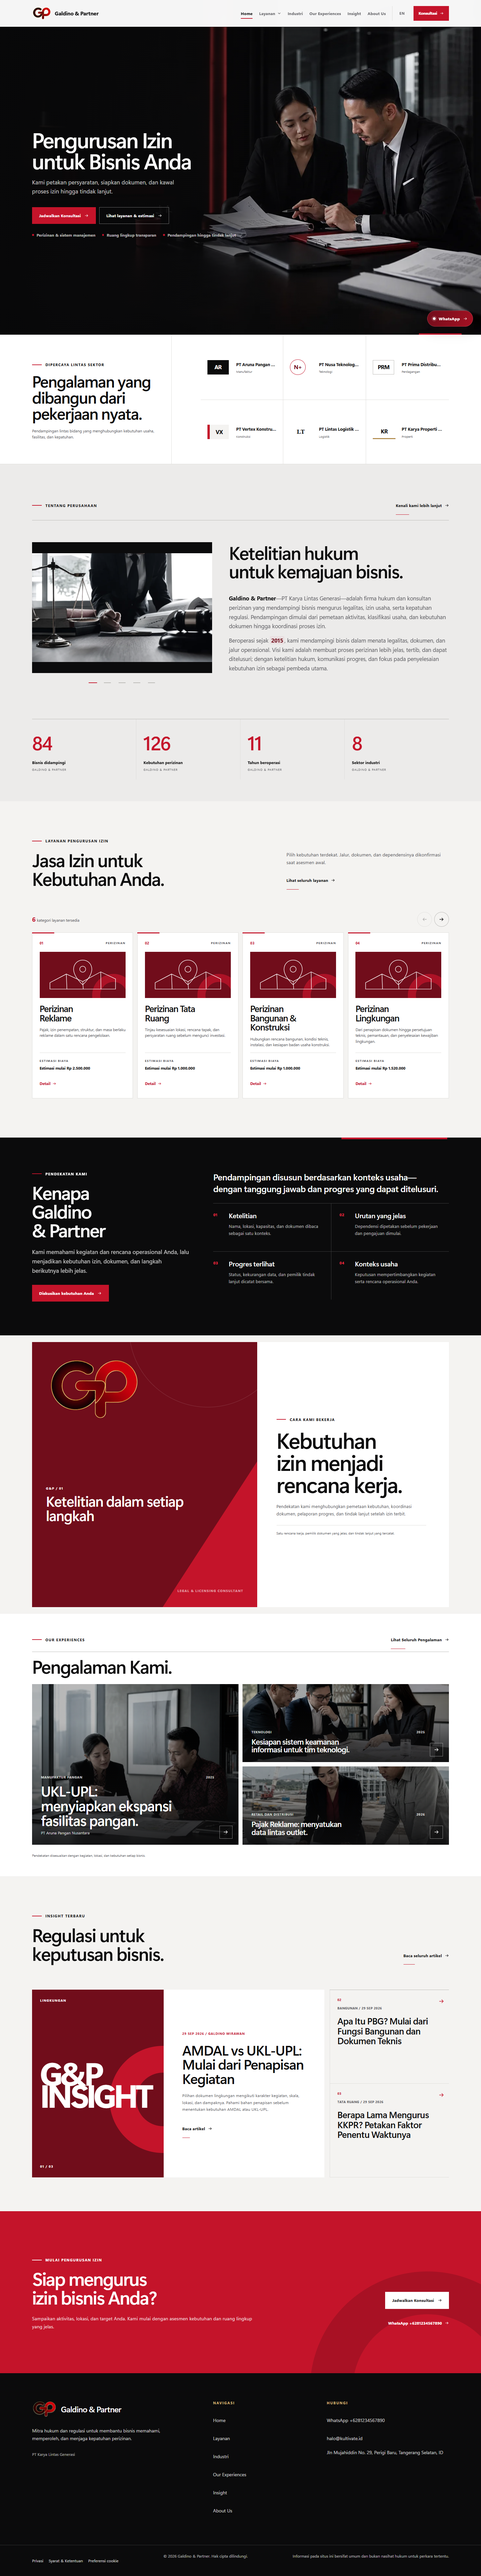
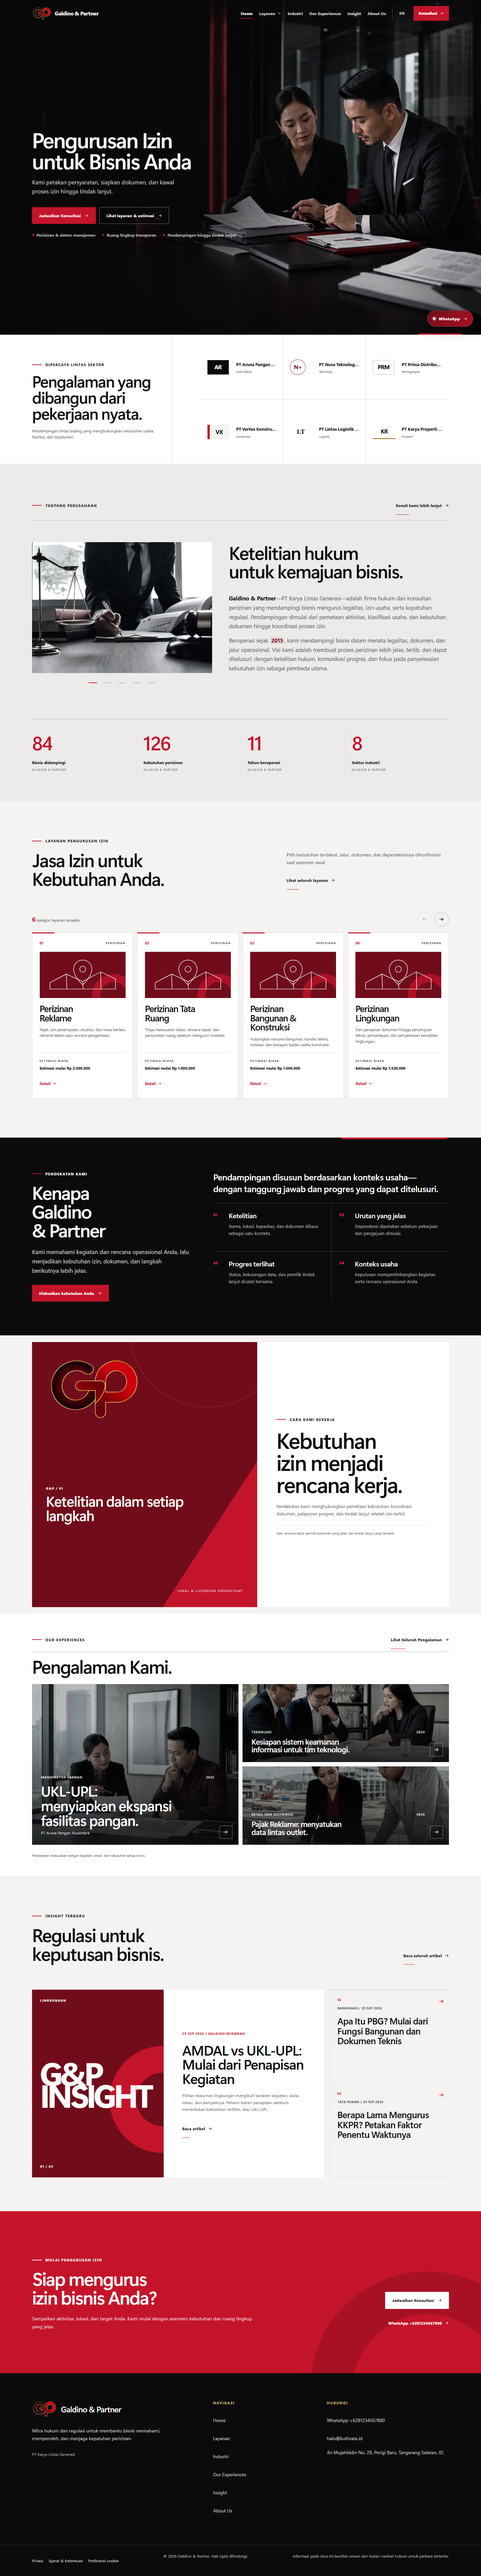
Refine service estimates, fitted photos and About Us sections

Changed region(s): [[0.0625, 0.1871, 0.4375, 0.2806], [0.0, 0.0, 1.0, 0.0312]]

diff --git a/outputs/galdino_partner/website/scripts/browser/site.spec.ts b/outputs/galdino_partner/website/scripts/browser/site.spec.ts
@@ -182,7 +182,7 @@ test('brand headings, image framing, navigation and featured sections stay consi
  for(const route of ['', 'profile/', 'services/', 'industries/', 'projects/', 'blog/']){
   await page.goto('/'+locale+'/'+route);
   const hero=page.locator('.home-hero,.profile-hero,.image-hero');expect((await hero.boundingBox())!.height).toBeGreaterThanOrEqual(route==='profile/'?815:999);
-  const heroImg=hero.locator('img').first();expect(await heroImg.evaluate(el=>getComputedStyle(el).objectFit)).toBe('cover');
+  const heroImg=hero.locator('img').first();expect(await heroImg.evaluate(el=>getComputedStyle(el).objectFit)).toBe('cover');const unfilled=await page.locator('.case-photo img,.related-cases img,.ed-figure img,.company-gallery__slide img,.work-collage img').evaluateAll(images=>images.filter(img=>getComputedStyle(img).objectFit!=='cover').length);expect(unfilled).toBe(0);
   if(!['','profile/'].includes(route)){await expect(heroImg).toHaveAttribute('src',/hero-/);expect(await heroImg.evaluate(el=>getComputedStyle(el).objectPosition)).toBe('50% 50%');}
   headings.push(await page.locator('h1').evaluate(el=>{const c=getComputedStyle(el);return [c.fontFamily,c.fontSize,c.fontWeight,c.letterSpacing,c.lineHeight].join('|')}));
   await expect(page.locator('.nav-link[href="/'+locale+'/projects/"]')).toHaveText('Our Experiences');
@@ -230,11 +230,12 @@ test('split detail heroes, compact profiles and contact follow the revised struc
  for(const locale of ['id','en']){
   for(const route of locale==='id'?['services/reklame/','services/reklame/pajak-reklame/','industries/developer-properti/']:['services/advertising-permits/','services/advertising-permits/advertising-tax/','industries/property-developers/']){
    await page.goto('/'+locale+'/'+route);await expect(page.locator('.split-hero img')).toBeVisible();await expect(page.locator('.split-hero')).toHaveCSS('background-color','rgb(255, 255, 255)');await expect(page.locator('.site-header')).not.toHaveClass(/site-header--immersive/);await expect(page.locator('.context-section .ed-button')).toHaveAttribute('href',new RegExp('/'+locale+'/contact/'));const href=await page.locator('.split-hero .ed-button').getAttribute('href');await page.locator('.split-hero .ed-button').click();await expect(page.locator(href!)).toBeInViewport();
+   if(route.includes('pajak-reklame/')||route.includes('advertising-tax/')){const sections=await page.locator('.context-section,#service-estimates,#service-scope').evaluateAll(els=>els.map(el=>el.id||'context'));expect(sections).toEqual(['context','service-estimates','service-scope']);await expect(page.locator('#service-estimates>.ed-note')).toHaveCount(1);const list=page.locator('#service-scope .ed-list').first();await expect(list).toHaveCSS('list-style-type','disc');await page.locator('#service-estimates').screenshot({path:testInfo.outputPath(locale+'-service-estimates-1440.png')});}
    if(route.startsWith('industries/')){await expect(page.locator('main')).not.toContainText(locale==='id'?'Mulai percakapan':'Start a conversation');await expect(page.locator('.dark-map')).toHaveCSS('background-color','rgb(11, 11, 12)');await expect(page.locator('.related-cases,.related-insights')).toHaveCount(0);}
   }
   await page.goto('/'+locale+'/contact/');await expect(page.locator('.image-hero')).toHaveCount(0);await expect(page.locator('.site-header')).toBeVisible();await expect(page.locator('#contact-form')).toBeVisible();const copy=await page.locator('.contact-copy').boundingBox(),form=await page.locator('#contact-form').boundingBox();expect(copy!.x).toBeLessThan(form!.x);await expect(page.locator('.contact-next-steps li')).toHaveCount(6);await expect(page.locator('#contact-next-title')).toHaveText(locale==='id'?'Apa yang Selanjutnya Terjadi?':'What Happens Next?');
-  await page.goto('/'+locale+'/profile/hans-galdino/');await expect(page.locator('h1')).toHaveText('Hans Galdino');await expect(page.locator('.image-hero')).toHaveCount(0);await expect(page.locator('.related-insights')).toHaveCount(0);
-  await page.goto('/'+locale+'/profile/');await expect(page.locator('.principles li')).toHaveCount(4);await expect(page.locator('.profile-company__registry')).toHaveCount(1);await expect(page.locator('.related-cases article')).toHaveCount(2);await expect(page.locator('.work-strip figure')).toHaveCount(4);
+  await page.goto('/'+locale+'/profile/hans-galdino/');await expect(page.locator('h1')).toHaveText('Hans Galdino');await expect(page.locator('.image-hero')).toHaveCount(0);await expect(page.locator('.related-insights')).toHaveCount(0);const header=await page.locator('.site-header').boundingBox(),intro=await page.locator('.person-hero__copy').boundingBox();expect(intro!.y-header!.height).toBeLessThan(100);
+  await page.goto('/'+locale+'/profile/');await expect(page.locator('.principles li')).toHaveCount(4);await expect(page.locator('.profile-company__registry')).toHaveCount(0);await expect(page.locator('.related-cases article')).toHaveCount(2);await expect(page.locator('.work-collage figure')).toHaveCount(6);expect((await page.locator('.founder-note').boundingBox())!.height).toBeLessThan(900);await page.locator('.founder-note img,.work-collage img').evaluateAll(async(images:HTMLImageElement[])=>{images.forEach(img=>img.loading='eager');await Promise.all(images.map(img=>img.decode()));});await page.locator('.founder-note').screenshot({path:testInfo.outputPath(locale+'-founder-note-1440.png')});await page.locator('.work-collage').screenshot({path:testInfo.outputPath(locale+'-work-collage-1440.png')});await page.setViewportSize({width:375,height:900});await page.goto('/'+locale+'/profile/');expect((await page.locator('.founder-note').boundingBox())!.height).toBeLessThan(820);await page.locator('.founder-note img').evaluate((img:HTMLImageElement)=>img.decode());await page.locator('.founder-note').screenshot({path:testInfo.outputPath(locale+'-founder-note-375.png')});await page.setViewportSize({width:1440,height:1000});
  }
  for(const route of ['services/iso/','industries/developer-properti/','profile/hans-galdino/','blog/apa-itu-pbg/']){await page.goto('/id/'+route);await page.locator('img').evaluateAll(async(images:HTMLImageElement[])=>{images.forEach(img=>img.loading='eager');await Promise.all(images.map(img=>img.decode()));});await page.screenshot({path:testInfo.outputPath('id-'+route.replaceAll('/','-')+'1440.png'),fullPage:true,animations:'disabled'});}
  await page.goto('/id/blog/apa-itu-pbg/');await expect(page.locator('.article-header h1')).toBeVisible();await expect(page.locator('main')).not.toContainText('menit baca');await expect(page.locator('.article-body .ed-toc')).toBeVisible();

diff --git a/outputs/galdino_partner/website/src/styles/editorial.css b/outputs/galdino_partner/website/src/styles/editorial.css
@@ -17,20 +17,20 @@
 .ed-link{display:inline-flex;align-items:center;gap:.7rem;min-height:2.75rem;color:#9b1224;font-weight:750;text-underline-offset:.3em}
 .ed-tags{display:flex;flex-wrap:wrap;gap:.5rem;list-style:none;padding:0;font-size:.74rem;color:#56565b}.ed-tags li,.ed-tags span{padding:.25rem .55rem;border:1px solid #c9c8c5}
 .ed-breadcrumb{display:flex;flex-wrap:wrap;gap:.5rem;font-size:.75rem;color:#56565b;margin:0 0 2rem}.ed-breadcrumb a{text-underline-offset:.25rem}
-.ed-list{padding-left:1.2rem;margin:1.25rem 0}.ed-list li{padding:.3rem 0;max-width:68ch}
+.ed-list{list-style:disc;padding-left:1.2rem;margin:1.25rem 0}.ed-list li{padding:.3rem 0;max-width:68ch}.ed-list li::marker{color:var(--brand-red)}
 .ed-price{font-size:clamp(1.55rem,2.8vw,2.5rem);font-weight:600;letter-spacing:-.04em;font-variant-numeric:tabular-nums}
 .ed-aside{border-left:2px solid #bd1429;padding-left:1.5rem}.ed-aside p{font-size:.86rem;color:#56565b}
 .ed-columns{display:grid;grid-template-columns:repeat(2,minmax(0,1fr));gap:2rem}
 .ed-search{display:grid;gap:.5rem}.ed-search input,.ed-search select{width:100%;padding:1rem;border:1px solid #b8b7b4;background:#fff;color:#171719;border-radius:0;min-height:3.2rem}
 .ed-search label{font-weight:750;font-size:.8rem}.ed-results{font-size:.8rem;color:#56565b;margin:1rem 0}
 .ed-empty{border-left:3px solid #bd1429;padding:1.5rem;background:#fff}
-.ed-story{max-width:70ch;font-size:1.03rem;line-height:1.85}.ed-story h2{font-size:clamp(1.65rem,3vw,2.2rem);scroll-margin-top:7rem;margin-top:2.6rem}.ed-story h3{margin-top:2rem}.ed-story a{color:#9b1224;text-underline-offset:.2em}.ed-story ul,.ed-story ol{padding-left:1.5rem}.ed-story li{margin:.55rem 0}.ed-story blockquote{border-left:3px solid #bd1429;padding-left:1.5rem;margin:2rem 0}
+.ed-story{max-width:70ch;font-size:1.03rem;line-height:1.85}.ed-story h2{font-size:clamp(1.65rem,3vw,2.2rem);scroll-margin-top:7rem;margin-top:2.6rem}.ed-story h3{margin-top:2rem}.ed-story a{color:#9b1224;text-underline-offset:.2em}.ed-story ul,.ed-story ol{padding-left:1.5rem}.ed-story ul{list-style:disc}.ed-story ol{list-style:decimal}.ed-story li{margin:.55rem 0}.ed-story blockquote{border-left:3px solid #bd1429;padding-left:1.5rem;margin:2rem 0}
 .ed-note{padding:1.2rem 1.5rem;border-left:2px solid var(--brand-red);background:#ecebe8;font-size:.86rem}
 .ed-toc{position:sticky;top:7rem;font-size:.85rem}.ed-toc ol{padding-left:1.15rem}.ed-toc a{display:block;padding:.45rem 0;text-underline-offset:.25em}.ed-toc h2{font-size:1rem}
 .ed-details{border-bottom:1px solid #c9c8c5;padding:1.2rem 0}.ed-details summary{cursor:pointer;font-weight:700;padding:.3rem 0;min-height:2.75rem}.ed-details p{color:#56565b;margin:.5rem 0}
 .ed-related{display:grid;grid-template-columns:repeat(3,minmax(0,1fr));gap:1.5rem}.ed-related article{border-top:2px solid var(--brand-red);padding-top:1.25rem}.ed-related p{font-size:.88rem;color:#56565b}
-.ed-figure{margin:0;overflow:hidden;background:#deddda}.ed-figure img{width:100%;height:100%;object-fit: contain;aspect-ratio:16/10}
+.ed-figure{margin:0;overflow:hidden;background:#deddda}.ed-figure img{width:100%;height:100%;object-fit:cover;aspect-ratio:16/10}
 [hidden]{display:none!important}dialog{max-width:calc(100vw - 2rem)}
 @media(max-width:800px){.ed-split,.ed-columns{grid-template-columns:1fr}.ed-related{grid-template-columns:1fr}.ed-toc{position:static}.ed-aside{max-width:100%}.ed-hero{padding-top:3rem}.editorial h1{max-width:100%}}
 @media(prefers-reduced-motion:reduce){.editorial *{scroll-behavior:auto!important;transition:none!important;animation:none!important}}
-.detail-visual{margin:2.5rem 0 0;height:clamp(13rem,24vw,24rem);overflow:hidden;background:#dedbd6;border-bottom:4px solid #a11225}.detail-visual img{width:100%;height:100%;object-fit: contain;filter:saturate(.4)}
+.detail-visual{margin:2.5rem 0 0;height:clamp(13rem,24vw,24rem);overflow:hidden;background:#dedbd6;border-bottom:4px solid #a11225}.detail-visual img{width:100%;height:100%;object-fit:cover;filter:saturate(.4)}

diff --git a/outputs/galdino_partner/website/docs/QA_REPORT.md b/outputs/galdino_partner/website/docs/QA_REPORT.md
@@ -30,6 +30,6 @@ Home, Services and Contact measured below the project's 90-point performance tar
 
 ## Visual review and launch
 
-Home and About Us use their original hero layouts. Services, Industries, Our Experiences and Insight retain distinct wide hero photographs. The five supplied mockup photographs are cleaned of embedded UI and used on their matching main pages, including Our Experiences on mobile. Contact has no banner and uses context left, form right. All images are centered. Services restore smaller centered cover photos with red left/bottom accents, without numbers or captions; Home case photography restores cover framing. Industry cards use centered cover framing and red accents. Main index heroes follow Home with a dash/tag, benefit headline, lead and consultation button; breadcrumb strips are removed. Category hubs use two complete cards per row with a short description and provisional price and specific dark process maps with initial-record guidance. FAQ disclosure and interactive links have minimal motion with reduced-motion support. Contact restores six next-step explanations in the left column and keeps the main navbar above the inquiry section; the navbar has no separate Contact item. Home's dark section presents “Why Galdino & Partner,” and Industries uses the same dark background for its regulatory map. The old How We Work URLs redirect to the updated Home section. Category, service and industry detail heroes have white backgrounds, dark copy left, bordered photography right and a section CTA. Sector detail pages remove cases, insights and the duplicate sequence section. About Us is restored from 19135e9, including its company facts, founder note, four principles, photo strip and related cases. Individual professional profiles have no banner and remove related services/insights. Articles follow the Kultivate editorial structure without reading durations.
+Home and About Us use their original hero layouts. Services, Industries, Our Experiences and Insight retain distinct wide hero photographs. The five supplied mockup photographs are cleaned of embedded UI and used on their matching main pages, including Our Experiences on mobile. Contact has no banner and uses context left, form right. All photographs are centered and fill their fixed frames; logos retain their intrinsic proportions. Services restore smaller centered cover photos with red left/bottom accents, without numbers or captions; Home case photography restores cover framing. Industry cards use centered cover framing and red accents. Main index heroes follow Home with a dash/tag, benefit headline, lead and consultation button; breadcrumb strips are removed. Category hubs use two complete cards per row with a short description and provisional price and specific dark process maps with initial-record guidance. FAQ disclosure and interactive links have minimal motion with reduced-motion support. Contact restores six next-step explanations in the left column and keeps the main navbar above the inquiry section; the navbar has no separate Contact item. Home's dark section presents “Why Galdino & Partner,” and Industries uses the same dark background for its regulatory map. The old How We Work URLs redirect to the updated Home section. Category, service and industry detail heroes have white backgrounds, dark copy left, bordered photography right and a section CTA. Sector detail pages remove cases, insights and the duplicate sequence section. About Us retains its restored story and related cases, removes the company identity register, and uses a smaller founder note, four working principles and six monochrome photos in an asymmetric montage. Individual professional profiles have no banner, start closer to the navbar, and omit related services/insights. Specific services show dashed timing/fee labels immediately after the context explanation, with the fee-exclusions note inside the same section. Content lists show dot bullets. Articles follow the Kultivate editorial structure without reading durations.
 
 Hostinger access and a GTM ID are not yet available, as confirmed by the user. Production hosting, real SMTP receipt, live analytics and Search Console checks remain unverified. Prices and content remain provisional; indexing stays disabled. Broader unused-file cleanup is listed in docs/CLEANUP_REVIEW.md and was not included in deleting the specifically requested How We Work page.

diff --git a/outputs/galdino_partner/website/docs/REVISION_2026-10-01-RESTORATION.md b/outputs/galdino_partner/website/docs/REVISION_2026-10-01-RESTORATION.md
@@ -38,3 +38,13 @@ Each source was edited separately with this same prompt:
 > Use case: precise-object-edit. Edit target: attached finished website hero mockup. Produce ONLY its clean photographic background as a wide 16:9 image. Remove all overlaid website text, headlines, logos, navigation, buttons, lines, and UI panels, reconstructing the underlying photographic scene naturally. Preserve the original people, faces, poses, office or architectural setting, camera framing, warm sunset light, and photographic composition as closely as possible. Keep the entire scene edge to edge without borders or letterboxing. Preserve the darker left negative space for live HTML text, but do not add darkness across the people on the right. No text, typography, branding, watermark or UI anywhere.
 
 The supplied mockups are visual edit targets. Their baked-in text, alternative typefaces and arrow designs were not treated as independent implementation instructions. The user’s confirmed written request controls the implementation.
+
+## Further refinement — estimates, photography and About Us
+
+The next user revision moves the estimated timing and price directly after each specific service’s context explanation and before scope/deliverables. Both labels use the same red dash treatment as Scope and Deliverables. The professional-fee exclusions note now belongs to that same estimate section. Ordinary unordered content lists display dot bullets; ordered sequences, navigation and tags retain their own presentation.
+
+Fixed photographic frames now use centered cover fitting in experience cards, related cases, supporting editorial figures, the company gallery and team photographs. Logo and monogram assets retain their intrinsic proportions.
+
+The company identity register is removed from About Us. Individual profile introductions sit closer to the navbar. The founder note has a smaller centered portrait and reduced section spacing, fitting the tested desktop and 375px mobile viewport. The four working principles remain, with their desktop list starting slightly lower.
+
+Inside the Work uses six existing photographs in a joined, asymmetric monochrome grid. The supplied “Monochrome Urban Worklife Montage.png” is a composition reference: fewer photographs, larger areas and no repeated layered fragments. This is a responsive CSS composition; the reference raster itself is not used as a single website image.

diff --git a/outputs/galdino_partner/website/docs/PAGE_SPECIFICATIONS.md b/outputs/galdino_partner/website/docs/PAGE_SPECIFICATIONS.md
@@ -2,9 +2,9 @@
 
 See SITE_MAP.md for every URL and REVISION_2026-10-01-RESTORATION.md for the latest message revision decisions.
 
-Home and About: approved composition retained, completed central data, four people including Hans, service rail linked to six categories, working case/article destinations, link to the process section on Home.
+Home and About: approved main hero compositions retained, four people including Hans, service rail linked to six categories and working case/article destinations. About Us omits the company identity register, has a compact founder note and a six-photo monochrome montage. Individual profiles start closer to the navbar.
 
-Services: six visible category sections with links to all 38 services with service search temporarily hidden and small photographs with red left/bottom accents and no numbering or captions. Six dedicated hubs include a combined context section, a complete two-column service directory with descriptions and provisional fee estimates, category-specific dark process maps with initial-document guidance, and FAQ. Hubs omit related cases and insights. The environmental hub has four preserved group anchors, with short category/service URLs. Detail pages include all specified scope/document/process/fee/FAQ sections and connected content.
+Services: six visible category sections with links to all 38 services with service search temporarily hidden and small photographs with red left/bottom accents and no numbering or captions. Six dedicated hubs include a combined context section, a complete two-column service directory with descriptions and provisional fee estimates, category-specific dark process maps with initial-document guidance, and FAQ. Hubs omit related cases and insights. The environmental hub has four preserved group anchors, with short category/service URLs. Detail pages place timing and fee estimates with their exclusions after the context explanation, then show scope/deliverables, documents, process, FAQ and connected content.
 
 Industries: equal three-column index (two on tablet, one on mobile), without industry focus, case studies or insights sections. Six sector pages with split heroes, combined context and preparation records, a black requirement map, and relevant services. Related cases, insights and the duplicate work sequence are removed.
 
